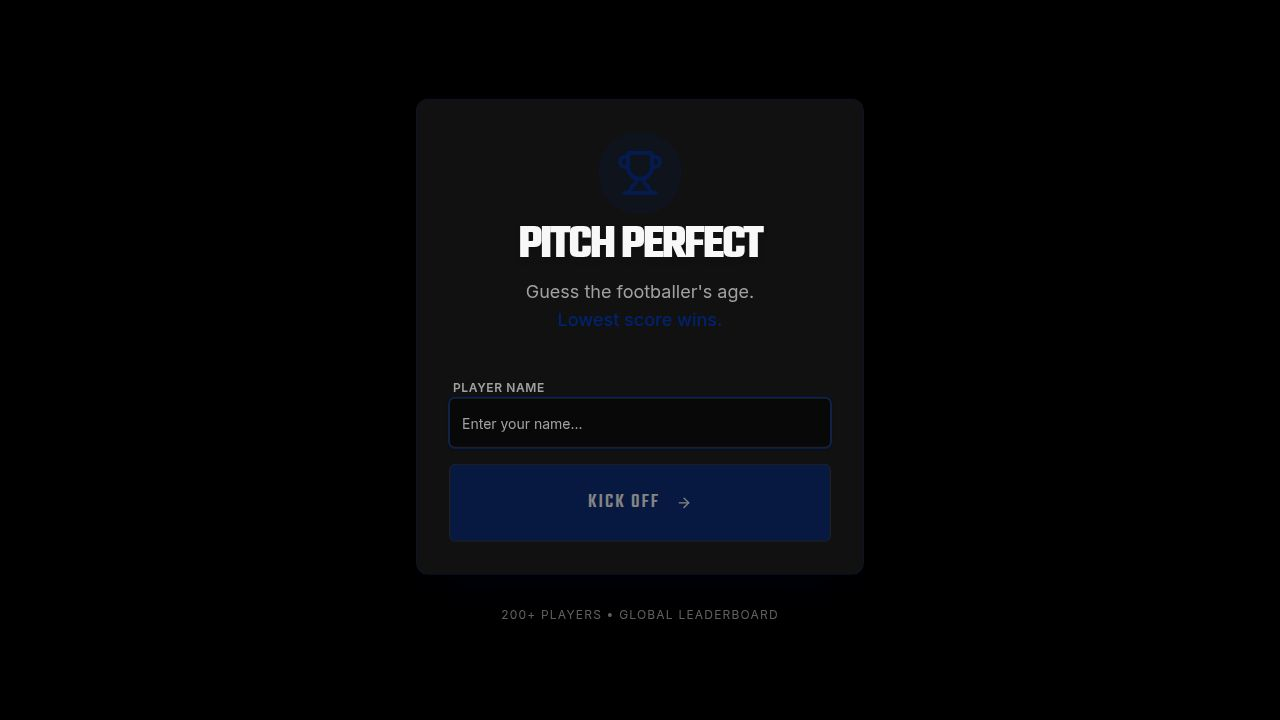
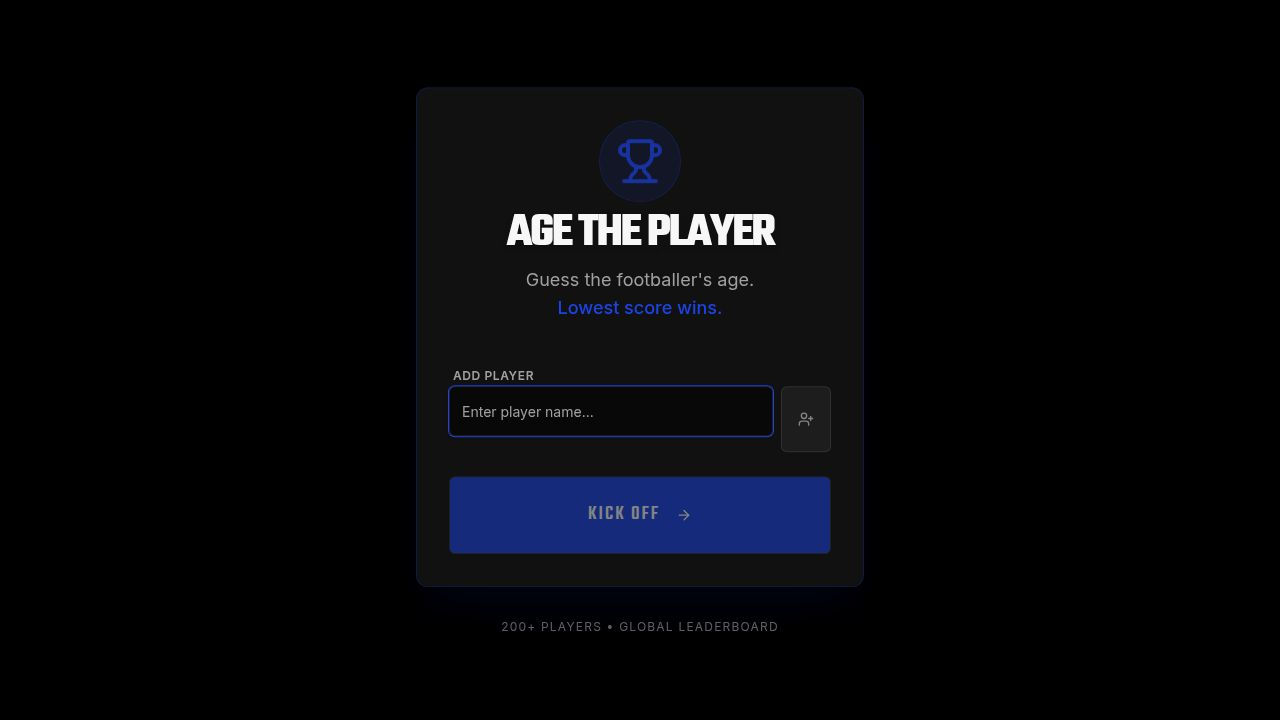
Update game appearance and feedback messages for better user experience
Apply new blue color theme, change game title to "Age The Player", and enhance player guess feedback with "Spot On!", "Close Call!", and "Poor Guess" statuses.

Replit-Commit-Author: Agent
Replit-Commit-Session-Id: cb760f80-8cc4-4e97-91f6-dfe871bbc707
Replit-Commit-Checkpoint-Type: full_checkpoint
Replit-Commit-Event-Id: 27c49f3c-c9ab-470a-909a-6cca96aa7aa6
Replit-Commit-Screenshot-Url: https://storage.googleapis.com/screenshot-production-us-central1/81660c9f-fc11-42ce-8547-a7fb2e67eec6/cb760f80-8cc4-4e97-91f6-dfe871bbc707/TNPh1dw
Replit-Helium-Checkpoint-Created: true

diff --git a/client/src/pages/game.tsx b/client/src/pages/game.tsx
@@ -178,24 +178,33 @@ export default function Game() {
                  </div>
 
                  <div className="space-y-3 py-4 border-y border-white/5">
-                   {lastRoundResult?.guesses.map((guess, idx) => (
-                     <div key={guess.humanPlayerName} className="flex items-center justify-between bg-white/5 rounded-lg px-4 py-3" data-testid={`feedback-player-${idx}`}>
-                       <div className="flex items-center gap-3">
-                         {guess.points === 0 ? (
-                           <CheckCircle2 className="w-5 h-5 text-green-500" />
-                         ) : (
-                           <AlertCircle className="w-5 h-5 text-orange-500" />
-                         )}
-                         <span className="text-white font-medium">{guess.humanPlayerName}</span>
+                   {lastRoundResult?.guesses.map((guess, idx) => {
+                     const feedbackText = guess.points === 0 ? 'Spot On!' : guess.points <= 2 ? 'Close Call!' : 'Poor Guess';
+                     const feedbackColor = guess.points === 0 ? 'text-green-500' : guess.points <= 2 ? 'text-orange-500' : 'text-destructive';
+                     return (
+                       <div key={guess.humanPlayerName} className="flex items-center justify-between bg-white/5 rounded-lg px-4 py-3" data-testid={`feedback-player-${idx}`}>
+                         <div className="flex items-center gap-3">
+                           {guess.points === 0 ? (
+                             <CheckCircle2 className="w-5 h-5 text-green-500" />
+                           ) : guess.points <= 2 ? (
+                             <AlertCircle className="w-5 h-5 text-orange-500" />
+                           ) : (
+                             <AlertCircle className="w-5 h-5 text-destructive" />
+                           )}
+                           <div>
+                             <span className="text-white font-medium">{guess.humanPlayerName}</span>
+                             <span className={`ml-2 text-xs ${feedbackColor}`}>{feedbackText}</span>
+                           </div>
+                         </div>
+                         <div className="flex items-center gap-4">
+                           <span className="text-white/60 text-sm">Guessed: {guess.guess}</span>
+                           <span className={`font-bold ${feedbackColor}`}>
+                             +{guess.points}
+                           </span>
+                         </div>
                        </div>
-                       <div className="flex items-center gap-4">
-                         <span className="text-white/60 text-sm">Guessed: {guess.guess}</span>
-                         <span className={`font-bold ${guess.points === 0 ? 'text-green-500' : 'text-destructive'}`}>
-                           +{guess.points}
-                         </span>
-                       </div>
-                     </div>
-                   ))}
+                     );
+                   })}
                  </div>
 
                  <Button 

diff --git a/client/src/index.css b/client/src/index.css
@@ -41,7 +41,7 @@
   --popover: 0 0% 8%;
   --popover-foreground: 0 0% 100%;
 
-  --primary: 222 100% 23%; /* Blue #002675 */
+  --primary: 228 85% 52%; /* Blue #1a44ed */
   --primary-foreground: 0 0% 100%;
 
   --secondary: 1 82% 49%; /* Red #DF1A19 */
@@ -58,7 +58,7 @@
 
   --border: 0 0% 20%;
   --input: 0 0% 20%;
-  --ring: 222 100% 23%; /* Blue for focus rings */
+  --ring: 228 85% 52%; /* Blue #1a44ed for focus rings */
 
   --radius: 0.5rem;
 }

diff --git a/client/src/pages/home.tsx b/client/src/pages/home.tsx
@@ -59,7 +59,7 @@ export default function Home() {
             
             <div className="space-y-2">
               <h1 className="text-5xl font-display font-bold tracking-tighter text-white uppercase drop-shadow-md">
-                Pitch Perfect
+                Age The Player
               </h1>
               <p className="text-muted-foreground text-lg">
                 Guess the footballer's age. <br/>
